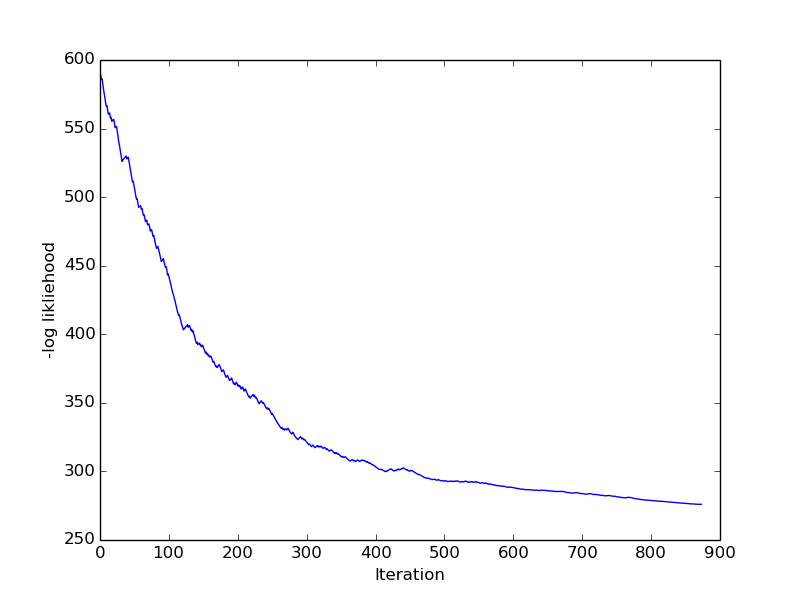
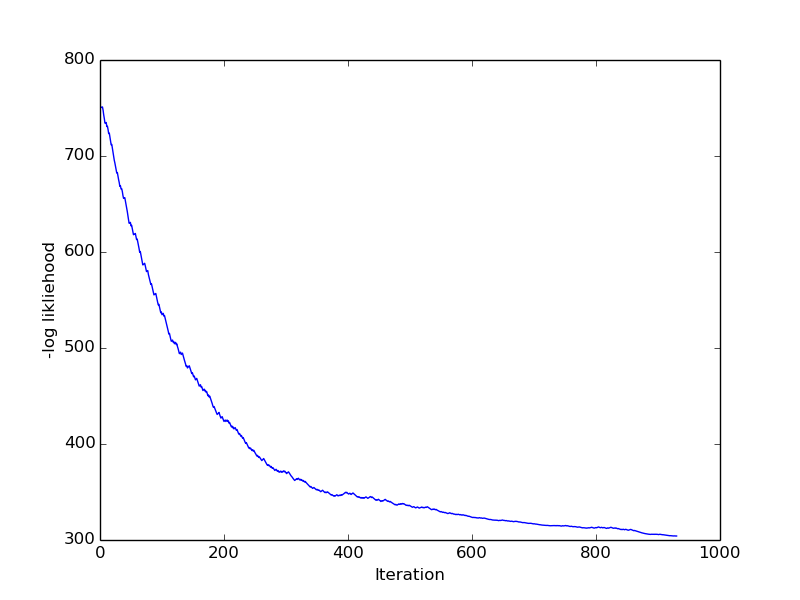
line search added

diff --git a/week2/stocastic.py b/week2/stocastic.py
@@ -16,7 +16,7 @@ def calc_gradient(X, y, b, i):
 #Calculate likliehood function
 def calc_l(X, y, b):
     w = calc_w(X, b)
-    l = -(np.dot(y.transpose(), np.log(w))+np.dot((1-y).transpose(), np.log(1-w)))
+    l = -(np.nan_to_num(np.dot(y.transpose(), np.log(w)))+np.nan_to_num(np.dot((1-y).transpose(), np.log(1-w))))
     #print l
     return l
 
